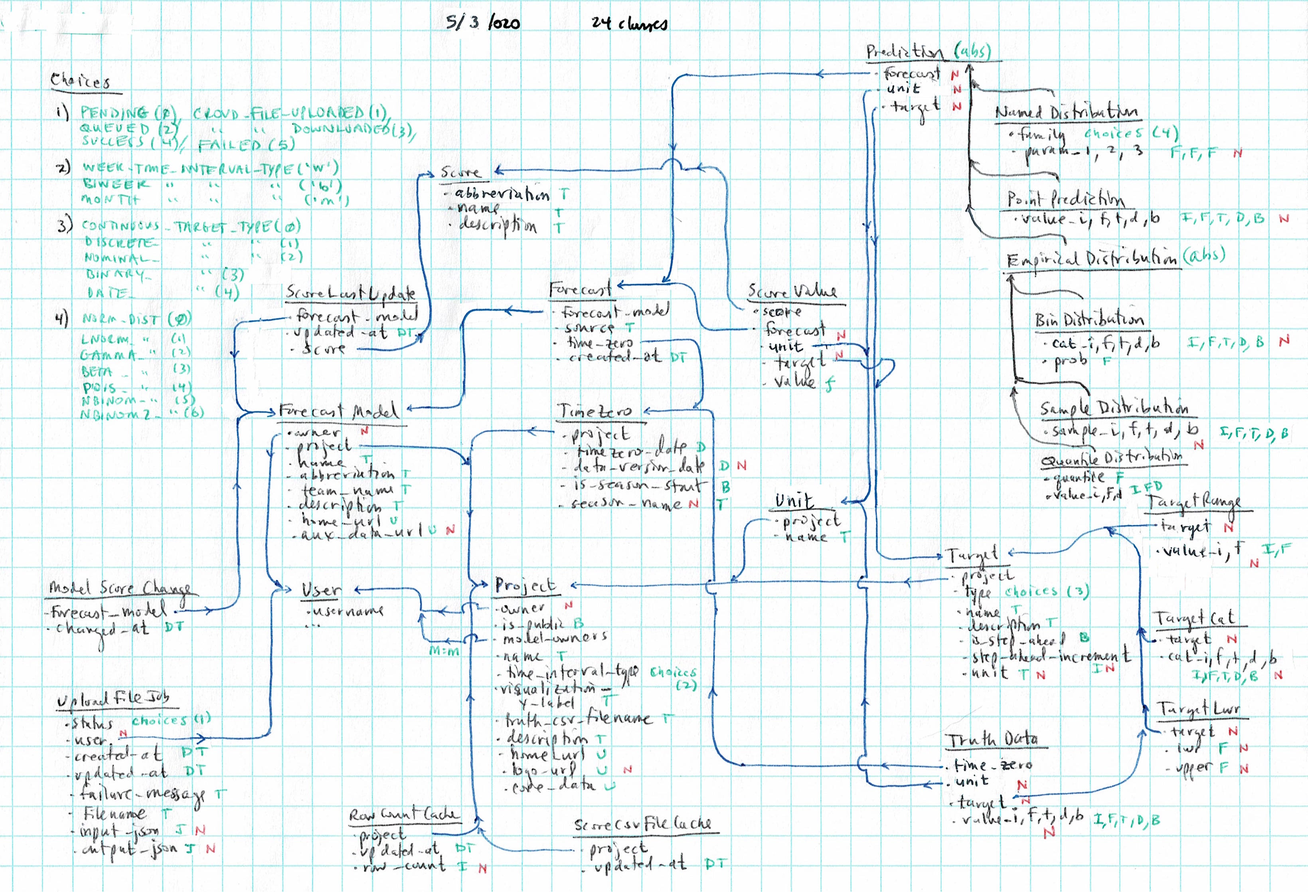
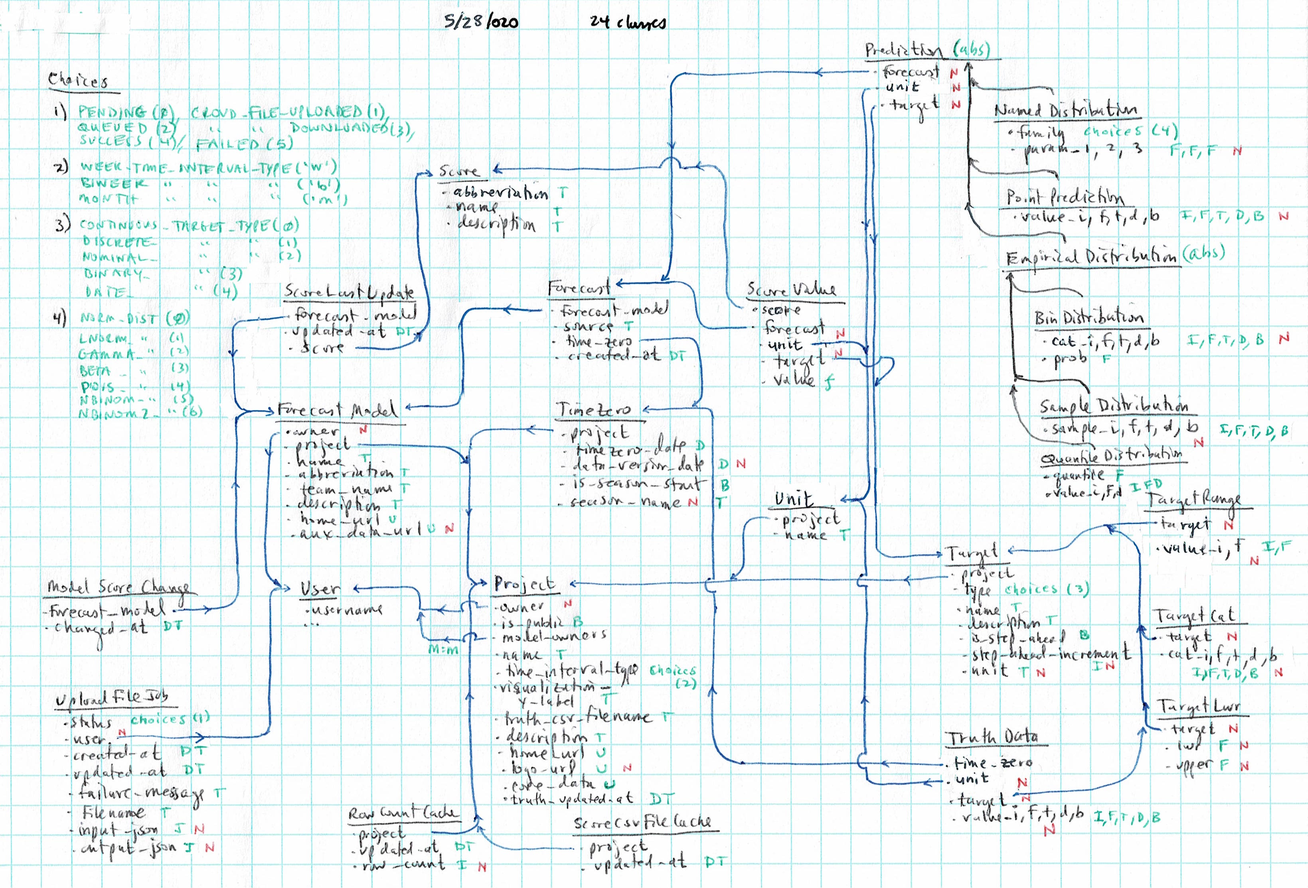
closes #200 [Add a "date updated" entry on the truth data page #200]. requires migration

Changed region(s): [[0.0, 0.0, 1.0, 1.0]]

diff --git a/forecast_app/templates/forecast_app/project_detail.html b/forecast_app/templates/forecast_app/project_detail.html
@@ -115,8 +115,7 @@
                     <td><a href="{{ project.core_data }}">{{ project.core_data }}</a></td>
                 </tr>
                 <tr>
-                    <th
-                            title="A data file containing observed target values for time zeros and units. Used to calculate scores, and extract the 'actual' data used in plots">
+                    <th title="A data file containing observed target values for time zeros and units. Used to calculate scores, and extract the 'actual' data used in plots">
                         Truth Data:
                     </th>
                     <td>
@@ -124,6 +123,7 @@
                             {# show a link to the truth detail #}
                             <a href="{% url 'truth-data-detail' project.pk %}">{{ project.truth_csv_filename }}</a>
                             <small class="text-muted">({{ project.get_num_truth_rows|intword|intcomma }} rows)</small>
+                            {% if project.truth_updated_at %}<small class="text-muted">{{ project.truth_updated_at|date:"Y-m-d H:i:s T" }}</small>{% endif %}
                         {% else %}
                             {# show that there's no truth data, optionally with upload button #}
                             {% if is_user_ok_edit_project %}

diff --git a/forecast_app/templates/truth_data_detail.html b/forecast_app/templates/truth_data_detail.html
@@ -44,6 +44,16 @@
                         {% endif %}
                     </td>
                 </tr>
+                <tr>
+                    <th>Truth Data Updated At:</th>
+                    <td>
+                        {% if project.truth_updated_at %}
+                            {{ project.truth_updated_at|date:"Y-m-d H:i:s T" }}
+                        {% else %}
+                            <small class="text-muted">(No update date found)</small>
+                        {% endif %}
+                    </td>
+                </tr>
                 </tbody>
             </table>
         </div>

diff --git a/forecast_app/models/project.py b/forecast_app/models/project.py
@@ -61,14 +61,13 @@ class Project(models.Model):
     visualization_y_label = models.TextField(help_text="Used when visualizing the Y axis label.")
 
     truth_csv_filename = models.TextField(help_text="Name of the truth csv file that was uploaded.")
+    truth_updated_at = models.DateTimeField(blank=True, null=True, help_text="The last time the truth was updated.")
 
     description = models.TextField(help_text="A few paragraphs describing the project. Please see documentation for"
                                              "what should be included here - 'real-time-ness', time_zeros, etc.")
 
     home_url = models.URLField(help_text="The project's home site.")
-
     logo_url = models.URLField(blank=True, null=True, help_text="The project's optional logo image.")
-
     core_data = models.URLField(
         help_text="Directory or Zip file containing data files (e.g., CSV files) made made available to everyone in "
                   "the challenge, including supplemental data like Google queries or weather.")
@@ -399,6 +398,7 @@ class Project(models.Model):
     def delete_truth_data(self):
         self.truth_data_qs().delete()
         self.truth_csv_filename = ''
+        self.truth_updated_at = None
         self.save()
         self._update_model_score_changes()
 

diff --git a/forecast_app/tests/test_project.py b/forecast_app/tests/test_project.py
@@ -46,10 +46,12 @@ class ProjectTestCase(TestCase):
         self.assertEqual(7, self.project.truth_data_qs().count())
         self.assertTrue(self.project.is_truth_data_loaded())
         self.assertEqual('truths-ok.csv', self.project.truth_csv_filename)
+        self.assertIsInstance(self.project.truth_updated_at, datetime.datetime)
 
         self.project.delete_truth_data()
         self.assertFalse(self.project.is_truth_data_loaded())
         self.assertFalse(self.project.truth_csv_filename)
+        self.assertIsNone(self.project.truth_updated_at)
 
         # csv references non-existent TimeZero in Project: should not raise error
         load_truth_data(self.project, Path('forecast_app/tests/truth_data/truths-bad-timezero.csv'),

diff --git a/utils/project.py b/utils/project.py
@@ -8,6 +8,7 @@ from pathlib import Path
 
 from django.db import connection
 from django.db import transaction
+from django.utils import timezone
 
 from forecast_app.models import Project, Unit, Target, Forecast, PointPrediction, ForecastModel, BinDistribution, \
     NamedDistribution, SampleDistribution, QuantileDistribution
@@ -430,6 +431,7 @@ def load_truth_data(project, truth_file_path_or_fp, file_name=None, is_convert_n
     # done
     logger.debug(f"load_truth_data(): saving. num_rows: {num_rows}")
     project.truth_csv_filename = file_name or truth_file_path_or_fp.name
+    project.truth_updated_at = timezone.now()
     project.save()
     project._update_model_score_changes()
     logger.debug(f"load_truth_data(): done")

diff --git a/forecast_app/tests/test_views_and_rest_api.py b/forecast_app/tests/test_views_and_rest_api.py
@@ -591,7 +591,7 @@ class ViewsTestCase(TestCase):
         self.assertEqual(5, len(response.data))  # assume contents are checked below
 
         response = self.client.get(reverse('api-truth-detail', args=[self.public_project.pk]), format='json')
-        self.assertEqual(['id', 'url', 'project', 'truth_csv_filename', 'truth_data'],
+        self.assertEqual(['id', 'url', 'project', 'truth_csv_filename', 'truth_updated_at', 'truth_data'],
                          list(response.data))
 
         response = self.client.get(reverse('api-truth-data-download', args=[self.public_project.pk]), format='json')

diff --git a/utils/print_project_info.py b/utils/print_project_info.py
@@ -29,7 +29,8 @@ def main(verbosity):
 
 def print_project_info(project, verbosity):
     # verbosity == 1
-    click.echo(f"\n\n* {project}. truth: {project.truth_data_qs().count()}. owner={project.owner}, "
+    click.echo(f"\n\n* {project}. truth: # rows={project.truth_data_qs().count()}, "
+               f"updated_at={project.truth_updated_at}. owner={project.owner}, "
                f"model_owners={project.model_owners.all()}, (num_models, num_forecasts, num_rows): "
                f"{project.get_summary_counts()}")
     if verbosity == 1:

diff --git a/forecast_app/migrations/0005_project_truth_updated_at.py b/forecast_app/migrations/0005_project_truth_updated_at.py
@@ -1,0 +1,20 @@
+# -*- coding: utf-8 -*-
+# Generated by Django 1.11 on 2020-05-28 18:55
+from __future__ import unicode_literals
+
+from django.db import migrations, models
+
+
+class Migration(migrations.Migration):
+
+    dependencies = [
+        ('forecast_app', '0004_job'),
+    ]
+
+    operations = [
+        migrations.AddField(
+            model_name='project',
+            name='truth_updated_at',
+            field=models.DateTimeField(blank=True, help_text='The last time the truth was updated.', null=True),
+        ),
+    ]

diff --git a/forecast_app/serializers.py b/forecast_app/serializers.py
@@ -193,7 +193,7 @@ class TruthSerializer(serializers.ModelSerializer):
 
     class Meta:
         model = Project
-        fields = ('id', 'url', 'project', 'truth_csv_filename', 'truth_data',)
+        fields = ('id', 'url', 'project', 'truth_csv_filename', 'truth_updated_at', 'truth_data',)
         extra_kwargs = {
             'url': {'view_name': 'api-truth-detail'},
         }
